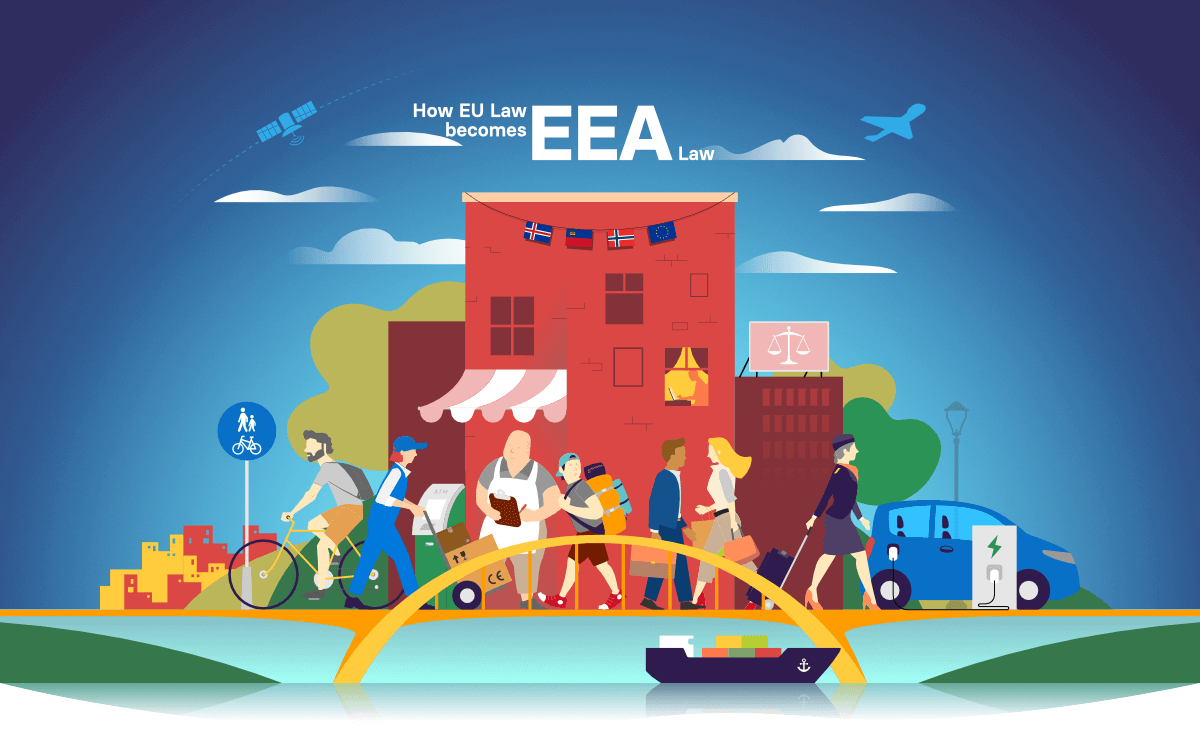
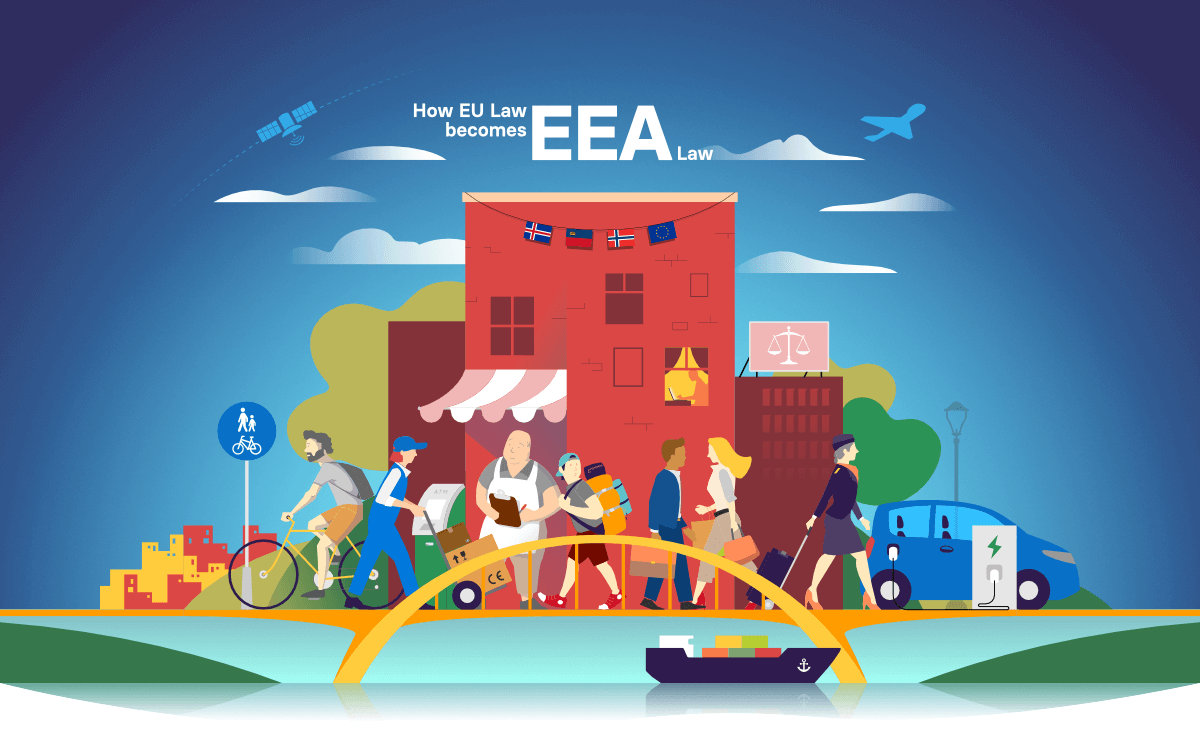
translate header images

diff --git a/_i18n/de/index.html b/_i18n/de/index.html
@@ -1,7 +1,7 @@
 <div class="article-cover" onclick="scrollPastCover(this)">
-  <img src="{{ site.baseurl }}/images/efta_illustration900x550-freedomOfMovements.png" 
-       srcset="{{ site.baseurl }}/images/efta_illustration1200x733-freedomOfMovements.png 1200w,
-               {{ site.baseurl }}/images/efta_illustration1800x1100-freedomOfMovements.png 1800w"
+  <img src="{{ site.baseurl }}/images/efta_illustration900x550-freedomOfMovements-de.png" 
+       srcset="{{ site.baseurl }}/images/efta_illustration1200x733-freedomOfMovements-de.png 1200w,
+               {{ site.baseurl }}/images/efta_illustration1800x1100-freedomOfMovements-de.png 1800w"
        alt="The Freedom of Movement in the EEA">
 </div>
 

diff --git a/_i18n/is/index.html b/_i18n/is/index.html
@@ -1,7 +1,7 @@
 <div class="article-cover" onclick="scrollPastCover(this)">
-  <img src="{{ site.baseurl }}/images/efta_illustration900x550-freedomOfMovements.png" 
-       srcset="{{ site.baseurl }}/images/efta_illustration1200x733-freedomOfMovements.png 1200w,
-               {{ site.baseurl }}/images/efta_illustration1800x1100-freedomOfMovements.png 1800w"
+  <img src="{{ site.baseurl }}/images/efta_illustration900x550-freedomOfMovements-is.png" 
+       srcset="{{ site.baseurl }}/images/efta_illustration1200x733-freedomOfMovements-is.png 1200w,
+               {{ site.baseurl }}/images/efta_illustration1800x1100-freedomOfMovements-is.png 1800w"
        alt="The Freedom of Movement in the EEA">
 </div>
 

diff --git a/_i18n/no/index.html b/_i18n/no/index.html
@@ -1,7 +1,7 @@
 <div class="article-cover" onclick="scrollPastCover(this)">
-  <img src="{{ site.baseurl }}/images/efta_illustration900x550-freedomOfMovements.png" 
-       srcset="{{ site.baseurl }}/images/efta_illustration1200x733-freedomOfMovements.png 1200w,
-               {{ site.baseurl }}/images/efta_illustration1800x1100-freedomOfMovements.png 1800w"
+  <img src="{{ site.baseurl }}/images/efta_illustration900x550-freedomOfMovements-no.png" 
+       srcset="{{ site.baseurl }}/images/efta_illustration1200x733-freedomOfMovements-no.png 1200w,
+               {{ site.baseurl }}/images/efta_illustration1800x1100-freedomOfMovements-no.png 1800w"
        alt="The Freedom of Movement in the EEA">
 </div>
 
